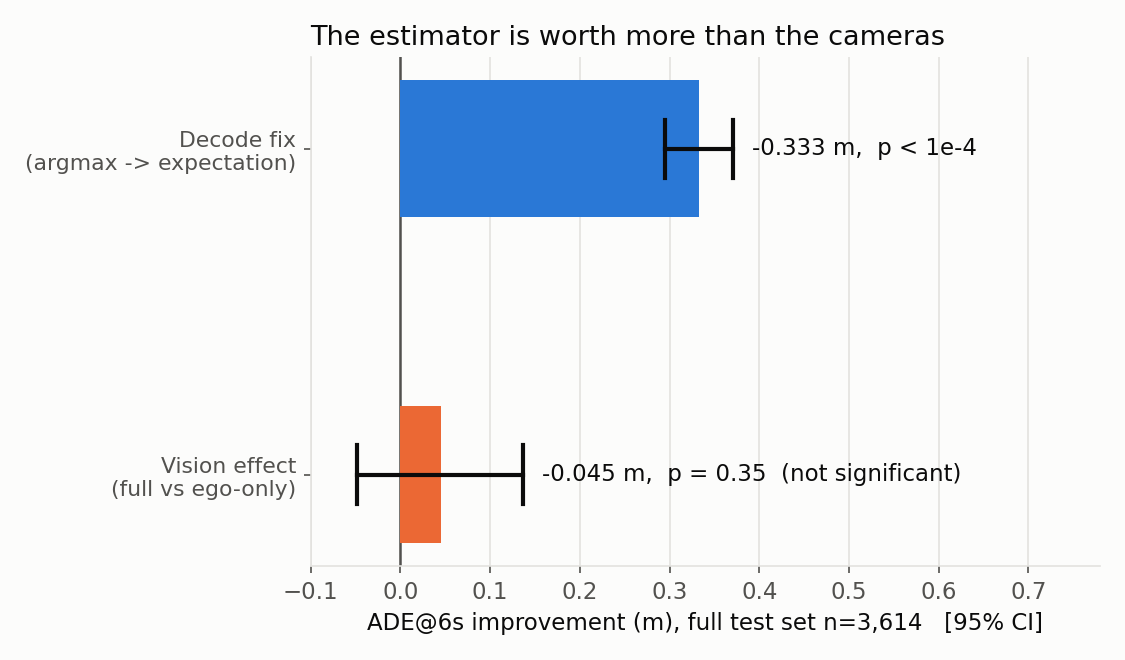
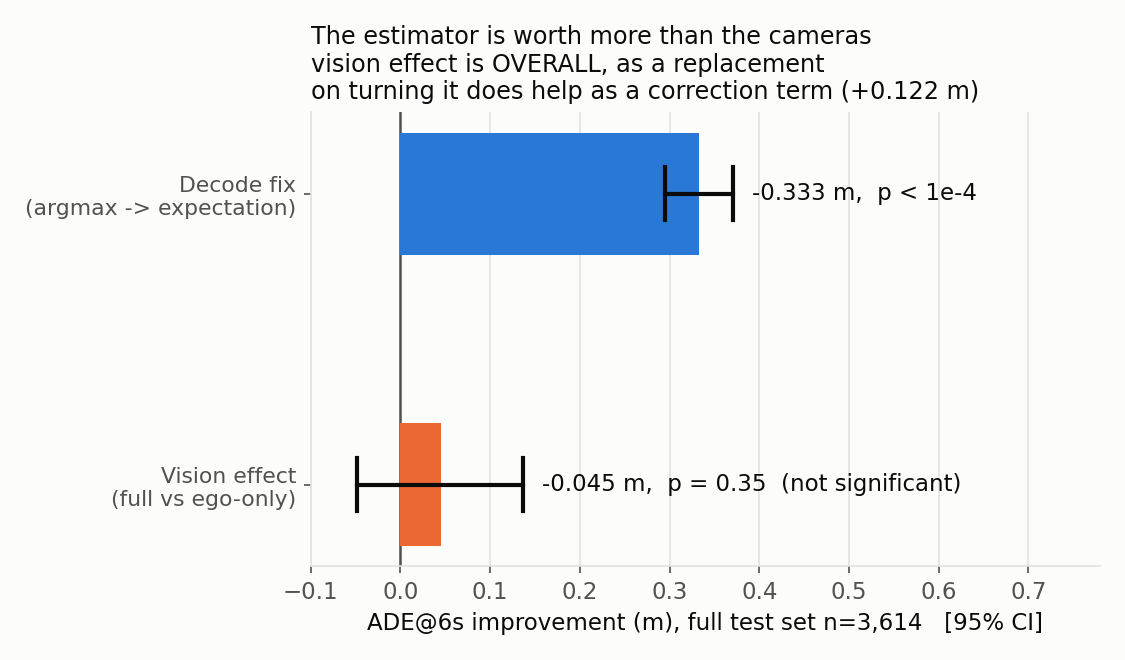
[overnight] 5.1/5.2/5.5 FROZEN_RESULTS.md, BRIEF.md, vision panel
FROZEN_RESULTS.md is the single source of truth: headline (labelled explicitly as a
model+CV ensemble), the four findings with CIs and n, all six self-corrections with
what was claimed / what is true / why it was wrong, five methodological notes, and
limits.

BRIEF.md is a one-page advisor brief with no undefined jargon, ending in the three
open decisions (deliverable, benchmark, Amogh comparison).

Visuals: panel (c) REGENERATED -- its numbers were already current (the -0.045 p=0.35
replacement effect is unchanged by Gate 4.7), but the title could be read as 'vision
never helps', so it now states the effect is OVERALL and points to the turning result.
New panel (e) e_turning_vision.png shows the +0.122 m turning effect across the three
base-ego configurations with the full/ego ranges separating within each. Panels (a),
(b), (d) checked against the frozen numbers and unchanged.

Claude-Session: https://claude.ai/code/session_017yBf8aU6PNmPrJVpXzPj7p

diff --git a/Alpamayo/code/make_viz.py b/Alpamayo/code/make_viz.py
@@ -38,6 +38,45 @@ def stack(T, idx): return np.stack([T[i] for i in idx])
 def ade_arr(P, G): return np.linalg.norm(P - G, axis=2).mean(1)
 
 
+
+def panel_e():
+    """(e) the turning vision effect across the three base-ego configurations.
+
+    Marginal test ADE gain from adding ONE model to a fixed baseline span (Gate 4.7,
+    deconfounded). Numbers are frozen -- read from the committed run, not recomputed.
+    """
+    import matplotlib.pyplot as plt
+    cfg = ['base ego_s42', 'base ego_s123', 'base ego_s2024']
+    full = [[0.1442, 0.1901, 0.1723], [0.2806, 0.3171, 0.3016], [0.1814, 0.2376, 0.2158]]
+    ego = [[0.0285, 0.0260], [0.2289, 0.1060], [0.1632, 0.0733]]
+    diff = [0.1416, 0.1323, 0.0934]
+    fig, ax = plt.subplots(figsize=(8.6, 5.0), dpi=150)
+    for k in range(3):
+        y = 2 - k
+        ax.plot([min(full[k]), max(full[k])], [y + 0.12] * 2, color=S1, lw=3,
+                solid_capstyle='round', zorder=3)
+        ax.plot(full[k], [y + 0.12] * len(full[k]), 'o', ms=8, color=S1,
+                markeredgecolor=SURF, markeredgewidth=1.5, zorder=4)
+        ax.plot([min(ego[k]), max(ego[k])], [y - 0.12] * 2, color=S2, lw=3,
+                solid_capstyle='round', zorder=3)
+        ax.plot(ego[k], [y - 0.12] * len(ego[k]), 'o', ms=8, color=S2,
+                markeredgecolor=SURF, markeredgewidth=1.5, zorder=4)
+        ax.annotate(f"+{diff[k]:.3f} m", (max(full[k]) + 0.012, y), color=INK,
+                    fontsize=10.5, va='center')
+    ax.annotate('full-vision model added', (full[0][0], 2.12), color=S1, fontsize=10.5,
+                textcoords='offset points', xytext=(-6, 14), ha='left')
+    ax.annotate('ego-only model added', (ego[0][0], 1.88), color=S2, fontsize=10.5,
+                textcoords='offset points', xytext=(-6, -20), ha='left')
+    ax.set_yticks([2, 1, 0]); ax.set_yticklabels(cfg, fontsize=10.5)
+    ax.set_ylim(-0.6, 2.7); ax.set_xlim(0, 0.40)
+    ax.set_xlabel('marginal TEST ADE@6s gain from adding one model (m) — TURNING, n=638')
+    ax.set_title('Vision helps on turning, as a correction term\n'
+                 'ranges separate within every base config; gap +0.122 m (sd 0.026), 3/3',
+                 loc='left', fontsize=12)
+    ax.grid(axis='x', color=GRID, lw=0.8); ax.set_axisbelow(True)
+    fig.tight_layout(); fig.savefig(f'{VIZ}/e_turning_vision.png'); plt.close(fig)
+
+
 def main():
     os.makedirs(VIZ, exist_ok=True)
     Dv, mv, iv, Gv, CVv = load('val')
@@ -137,7 +176,10 @@ def main():
     ax.set_yticks(ypos); ax.set_yticklabels(labels, fontsize=10.5)
     ax.set_xlim(-0.1, 0.78)
     ax.set_xlabel('ADE@6s improvement (m), full test set n=3,614   [95% CI]')
-    ax.set_title('The estimator is worth more than the cameras', loc='left')
+    ax.set_title('The estimator is worth more than the cameras\n'
+                 'vision effect is OVERALL, as a replacement\n'
+                 'on turning it does help as a correction term (+0.122 m)',
+                 loc='left', fontsize=11.5)
     ax.grid(axis='x', color=GRID, lw=0.8); ax.set_axisbelow(True)
     fig.tight_layout(); fig.savefig(f'{VIZ}/c_decode_vs_vision.png'); plt.close(fig)
 
@@ -172,6 +214,7 @@ def main():
     fig.tight_layout(rect=(0, 0.06, 1, 0.97))
     fig.savefig(f'{VIZ}/d_bev_turning.png'); plt.close(fig)
 
+    panel_e()
     print("alpha*:", {k: (astars[k], cis[k]) for k, _, _ in MODELS})
     print("wrote:", sorted(os.listdir(VIZ)))
 

diff --git a/FROZEN_RESULTS.md b/FROZEN_RESULTS.md
@@ -1,0 +1,189 @@
+# FROZEN RESULTS — decode rule, shrinkage, and the vision question
+
+Alpamayo VLA / nuScenes. Results frozen 2026-09-07. Nothing below may be changed by
+further analysis; anything new goes in a separate document.
+
+Scope: a Cosmos-Reason1-7B model fine-tuned to emit 6-second driving futures as 24
+discrete tokens (12 acceleration + 12 curvature), decoded through a unicycle model.
+Scene-based split, 16,763 train / 3,572 val / 3,614 test. All numbers are autoregressive
+(no teacher forcing). Metric is ADE@6s in metres unless stated: mean L2 distance between
+predicted and true positions over the 12 future steps.
+
+Baseline throughout: **CV**, a constant-velocity rollout from the true current speed and
+heading. Full test set: **3.062 mean / 2.409 median**.
+
+---
+
+## HEADLINE
+
+**An ego-only model blended with constant velocity reaches 2.894 m vs CV's 3.062 m
+on the 3,614-sample test set: -5.5%, p < 1e-4 (paired bootstrap, 95% CI
+[-0.194, -0.142]).**
+
+The blend weight alpha was fit on the validation split and applied unchanged to test.
+It is seed-robust: +0.154 +/- 0.025 m across three training seeds (alpha* = 0.25/0.25/0.30).
+The full-vision model gives 2.910 m (+0.152, CI [-0.181,-0.123], seeds +0.144 +/- 0.009).
+
+**This is a model+CV ENSEMBLE, not the model beating CV.** The formula is
+`trajectory = alpha * model + (1 - alpha) * CV` applied per timestep in position space,
+with alpha ~= 0.25-0.30. No trained model beats CV on its own; the best standalone learned
+model scores 3.266 m and has no inputs at all (see Correction 4).
+
+---
+
+## THE FOUR FINDINGS
+
+### 1. Decode rule: take the distribution's mean, not its mode
+
+Replacing argmax decoding with the probability-weighted mean over the 64 bins of each
+token's distribution improves ADE@6s by **0.333 m** (CI [-0.371, -0.295], p < 1e-4,
+n = 3,614) on the full-vision model; 0.346 m ego-only; 0.382 m zero-input.
+
+The same fix applied to a model **trained with both vision and ego inputs zeroed** —
+a model that cannot see anything — captures **86%** of the gain (+0.252 vs +0.294).
+It is therefore an **estimator fix, not a perception improvement**, and should generalise
+to any VLA emitting discretised control tokens.
+
+Two implementation details mattered. The STOP token must be kept in the distribution's
+support with its tokenizer value of 0.0; dropping it renormalises over a residual noise
+floor and drives stationary vehicles away (ADE@6s 3.589 vs 1.253 on a stationary-heavy
+subset). And a hybrid rule -- argmax when p(STOP) > 0.5, mean otherwise -- makes the fix
+strictly dominant over argmax in every stratum (3.570 vs 3.921 overall; on stationary
+0.767 vs 0.786, with the median back to 0.001).
+
+### 2. Shrinkage toward the baseline
+
+alpha* = 0.30 (full-vision, 95% CI [0.25, 0.35]) and 0.25 (ego-only, CI [0.25, 0.30]);
+every CI excludes 0. Three matched null predictors -- Gaussian noise scaled to the model's
+deviation, the model's deviations permuted across samples, and its constant mean deviation
+-- all select alpha* = 0 and gain exactly **0.0000**. Forcing the real alpha* = 0.30 onto a
+signal-free predictor of the same magnitude **costs 0.32-0.36 m**.
+
+Findings 1 and 2 are **89% the same mechanism**: the decode gain is 0.333 m alone but
+0.036 m once both are blended. Both are variance reduction against an over-committing
+model. Present them as one finding with two implementations.
+
+### 3. Correction versus replacement -- why every earlier result was negative
+
+The model is a worse standalone predictor than CV on every component: **39% higher MSE**
+(38.783 vs 27.845) and **double the bias** (1.038 vs 0.507 m). Yet its *disagreement* with
+CV correlates with the correction CV actually needs at **r = +0.34** (permutation test,
+0 of 2000 permutations reach it, p = 0.0005).
+
+Those facts are compatible because ADE ranks predictors, while that correlation asks
+whether the model's deviation is informative. This reconciles the whole project: **every
+head-to-head test said the models were useless, and they were -- as replacements. As
+correction terms they are not.**
+
+### 4. Vision: nothing overall, a real effect on turning
+
+Adding one model at a time to a fixed baseline span, repeated across all three choices of
+base seed (marginal test ADE gain, mean by kind):
+
+    base ego     ALL: full   ALL: ego   diff  | TURN: full  TURN: ego   diff
+    ego_s42       +0.0612    +0.0651  -0.0039 |  +0.1689    +0.0272   +0.1416
+    ego_s123      +0.1155    +0.1311  -0.0156 |  +0.2997    +0.1675   +0.1323
+    ego_s2024     +0.0520    +0.0594  -0.0074 |  +0.2116    +0.1183   +0.0934
+
+**Overall: no vision effect.** Adding an ego-only checkpoint helps as much as adding a
+full-vision one (difference negative in 3/3 configurations). This is ensemble diversity.
+
+**On turning (n = 638, max|GT curvature| > 0.05 rad/m): +0.122 m, sd 0.026, positive in
+3/3 configurations**, with full-vision and ego-only ranges separating completely within
+each configuration. Vision helps **only as a correction term, never as a replacement**,
+and only where the road bends.
+
+---
+
+## CORRECTIONS TO PRIOR CLAIMS
+
+All six are self-corrections found by this work.
+
+**C1. "Turn-weighted training makes vision net-positive overall" (Y1) does not replicate.**
+Claimed: full-vision 3.924 beats ego-only 3.978 overall. True: with the corrected decode on
+the full test set the gap is **-0.045 m, CI [-0.137, +0.048], p = 0.35** — not significant.
+Why it was wrong: the original claim rested on a 0.054 m difference with no CI and no seed
+replication; Z1 had already flagged it as within seed noise.
+
+**C2. The published 3.924 used a legacy STOP mapping.** Argmax decoded the STOP token to
+bin 32 -- which is *not* zero (-0.336 m/s2, -0.064 rad/m) -- rather than the tokenizer's own
+value of (0.0, 0.0). Corrected, the same checkpoint scores **3.921**. Worth +0.0071 m
+(CI [-0.0002, +0.0154], p = 0.057): real but marginal. Why it was wrong: a comment said
+"clamp to 0..63" and the equality branch was never checked against the tokenizer.
+
+**C3. The 0.885 m "immovable floor" is a 100-sample figure.** It is the mean over the first
+100 trajectories of the whole dataset. On the full test set the hard-token floor is
+**1.348 m mean / 0.889 m median**; the oracle sub-bin floor is 0.266 m, so interpolation
+headroom is 1.082 m. The medians agree; the means differ because of a test-set tail the
+100-sample check never saw. Why it was wrong: a development-time sanity check was quoted as
+a dataset constant.
+
+**C4. The best standalone learned model has no inputs.** A checkpoint trained with vision
+AND ego zeroed scores **3.266 m**, beating full-vision (3.588) and ego-only (3.633),
+p < 1e-4 against both. It wins by being closest to CV: across all 3,614 test samples it
+emits a single constant control sequence (max|predicted curvature| = 0.00638 and
+max|predicted acceleration| = 0.3694 for *every* sample). It does not rarely turn; it
+ignores its input entirely.
+
+**C5. Gate 2.3(c)'s oracle-switch headroom was inflated.** Claimed: per-sample
+min(model, CV) reaches 2.350 vs CV 3.062, read as "they fail on different samples, so a
+selector is worth building". True: the min() operator manufactures most of that. The
+zero-input model correlates with CV at **r = 0.955** with a mean difference of 0.072 m, yet
+min(zeroboth, CV) still "gains" **0.424 m**. A model emitting one constant plan cannot hold
+complementary information. Why it was wrong: no null model was run alongside.
+
+**C6. "Vision contributes as a correction term" (Gate 4.5) is WITHDRAWN for the overall
+number.** Claimed: in a nested blend, the term (full - ego) took coefficient +0.2546 with a
+CI excluding 0, marginal gain +0.068 m. True: that gain is ensemble diversity —
+adding a second *ego-only* checkpoint buys as much (+0.065). Why it was wrong: the two
+checkpoints differ by training run as well as by modality, and the contrast design was
+additionally confounded by basis-span structure (see M3). The turning-only effect in
+Finding 4 survives this correction; the overall claim does not.
+
+---
+
+## METHODOLOGICAL NOTES (carry these beyond this project)
+
+**M1. Teacher-forced validation loss is invalid for token trajectory models.** A model
+given zero inputs matches it. Selection and early stopping must use leak-free
+autoregressive rollout error.
+
+**M2. Oracle-switch headroom is uninterpretable without a null model.** `min(A, B)` sits
+below `mean(B)` whenever A and B are imperfectly correlated, with no complementary
+information required. Always report a null predictor's oracle gain beside the real one.
+Here a near-copy of the baseline (r = 0.955) showed 0.424 m of illusory headroom.
+
+**M3. Basis-span confounding in nested-blend decomposition.** When decomposing a blend into
+contrast terms `(P - Q)`, a contrast whose `Q` already lies in the fitted span adds exactly
+one new direction `P`, while a contrast with neither endpoint in the span adds only the
+difference direction. The first kind gains and the second does not, *regardless of what the
+contrast is labelled*. Vary one model at a time against a fixed span instead, and repeat
+across base choices.
+
+**M4. A null test pinned at a parameter boundary is one-sided.** If alpha = 0 recovers the
+baseline exactly, a signal-free predictor can never show a positive gain, so "the null
+gained nothing" is necessary rather than informative. Add a forced-parameter test (apply the
+real alpha to the null and measure the cost), a permutation test on the underlying
+correlation, and a curve-shape check for an interior versus boundary minimum.
+
+**M5. Report medians and tail quantiles, not only means.** The mean alone hid the actual
+mechanism here for the whole project. The blend's straight-road win rate is 0.480 -- below
+half -- while its mean improves: it removes bad outcomes rather than improving typical ones.
+
+---
+
+## LIMITS
+
+- **One dataset** (nuScenes), one architecture, one tokenizer. No claim of generality
+  beyond "should apply to VLAs emitting discretised control", which is untested.
+- **The turning subset is 638 samples** and is the same subset used throughout, so the
+  turning results are not independent of each other.
+- **The modality contrast is necessarily cross-run**: no two checkpoints differ in vision
+  alone, so "vision" is always confounded with training run to some degree. Varying the
+  base seed mitigates this but does not eliminate it.
+- **The headline is an ensemble**, not a model. Deployed, it requires running both the
+  network and a constant-velocity predictor and blending them.
+- **No closed-loop evaluation.** Every number is open-loop displacement error against a
+  logged future. No collision, off-road, or comfort metric.
+- **Turn detection is not deployable**: both inference-time detectors tested fail, so the
+  turning-specific gains cannot currently be routed to at runtime.

diff --git a/BRIEF.md b/BRIEF.md
@@ -1,0 +1,96 @@
+# Alpamayo VLA — one-page brief
+
+**Kushal Koujalagi | 2026-09-07 | full detail in FROZEN_RESULTS.md**
+
+## What the system does
+
+A 7B vision-language model (Cosmos-Reason1) is fine-tuned on nuScenes to predict where the
+car will be over the next 6 seconds. It writes the future as 24 discrete tokens — 12 for
+acceleration, 12 for steering curvature — which are converted back into a path by a simple
+bicycle-style motion model. Trained on 16,763 clips, tested on 3,614 held-out clips from
+scenes the model never saw.
+
+**The number that matters:** ADE, the average distance in metres between the predicted path
+and what the car actually did, at 6 seconds.
+
+**The baseline that matters:** CV, "constant velocity" — assume the car keeps its current
+speed and heading in a straight line. On the test set CV scores **3.062 m**.
+
+## What was tried, and what happened
+
+For most of this project **no trained model beat that straight-line baseline.** The best
+standalone model scores 3.588 m against CV's 3.062 m. That was the central problem.
+
+Two things fixed it, and they turned out to be the same thing.
+
+**1. The model was asked the wrong question at output time.** The model produces a
+probability distribution over 64 possible accelerations, then we took the single most likely
+one. Taking the *average* of the distribution instead — its centre of mass — improves ADE by
+**0.333 m** (p < 1e-4). The most likely bin is a committed guess; the average is a hedge.
+
+**2. The model over-commits, so hedge again at the path level.** Blending the model's path
+with the constant-velocity path, roughly 25–30% model and 70–75% CV, gives:
+
+> ### **2.894 m vs CV's 3.062 m — a 5.5% improvement, p < 1e-4**
+> First configuration in this project to beat constant velocity. Blend weight was chosen on
+> validation data and applied unchanged to test. Holds across three training seeds.
+
+**This is an ensemble of the model and the baseline, not the model winning on its own.**
+Stated plainly because the distinction matters for what we can claim.
+
+## Why everything looked negative before
+
+The model is a *worse* predictor than CV: 39% higher squared error, double the systematic
+bias. But the direction in which it disagrees with CV correlates at **+0.34** (p = 0.0005)
+with the correction CV actually needs.
+
+**The models were useless as replacements for the baseline. They are not useless as
+corrections to it.** Every earlier experiment asked the first question and got a negative
+answer. That single reframing explains the whole project history.
+
+We verified this is real, not a statistical artifact: three different "fake models" with the
+same error magnitude but no real information gain **exactly zero**, and forcing the same
+blend weight onto them *costs* 0.32–0.36 m.
+
+## What the cameras contribute
+
+**Overall: nothing measurable.** Full-vision versus ego-only (speed/heading only) is
+**−0.045 m, p = 0.35** — not significant. Adding a second camera-free model helps as much as
+adding a camera model, so what looked like a vision benefit is just averaging two different
+networks. An earlier claim that turn-weighted training made vision net-positive **does not
+replicate** and has been withdrawn.
+
+**On turns, vision does help: +0.122 m**, consistent across all three seed configurations,
+and only as a correction term. That is the first camera benefit here that survives seed
+replication. It is real but modest, and only where the road bends.
+
+## The four findings
+
+1. **Decode the distribution's mean, not its mode.** Worth 0.333 m. Works just as well on a
+   model given *no inputs at all* (86% of the gain), so it is a fix to the estimator, not to
+   perception — it should transfer to any similar system that emits discrete control tokens.
+2. **Shrink the prediction toward the baseline.** Worth 0.152–0.168 m and seed-robust. This
+   is 89% the same underlying mechanism as finding 1.
+3. **Correction, not replacement.** A model can be worse than a baseline and still improve
+   it. This is the conceptual result and the most reusable one.
+4. **Vision helps only on turns, only as a correction.** Nothing overall.
+
+## Honest limits
+
+One dataset; no closed-loop or collision testing; the turning result rests on 638 samples;
+"vision versus no vision" always also means "different training run"; and the headline
+requires running the baseline alongside the network. We also cannot yet *detect* turns at
+runtime well enough to route to the turning-specific behaviour.
+
+## Three open decisions — your input needed
+
+1. **What is the deliverable?** A paper on the decode/shrinkage method (generalises beyond
+   this dataset, and finding 3 is the interesting claim), or a system for the buggies (in
+   which case closed-loop metrics matter more than ADE)?
+2. **Is ADE the right benchmark?** It hid the actual mechanism for months — the blend wins
+   on 48% of straight-road samples while improving the mean, because it removes rare bad
+   predictions rather than improving typical ones. Should we move to tail metrics or
+   collision-based ones?
+3. **The Amogh comparison** (Cosmos versus Qwen2.5-VL on the same split) is still not done
+   and is the stated headline contribution. Do we run it now against these frozen numbers,
+   or redirect that effort?
